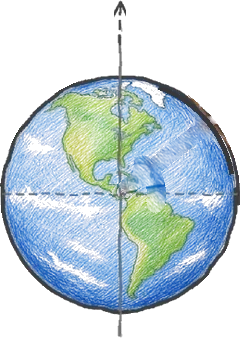
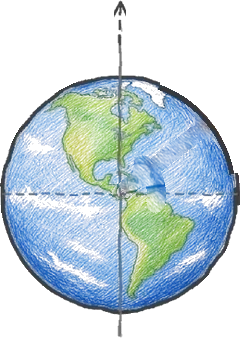
D02 Leo fixes: p10 erase the red mark at the globe's top right; p23 darker Moon's orbit label, node line kept off Earth's face, Earth's see-through center filled

Changed region(s): [[0.8458, 0.3254, 0.9917, 0.5325], [0.7292, 0.2663, 0.8458, 0.3254], [0.6708, 0.2367, 0.7292, 0.2663]]

diff --git a/public/js/astro-scenes/d02/p23.js b/public/js/astro-scenes/d02/p23.js
@@ -34,14 +34,14 @@ export default function build(ctx) {
 
   // the Moon's orbit, upper half solid and lower half dashed; the node line in red
   const half = () => Array.from({ length: 181 }, () => V(0, 0, 0));
-  const upper = line(half(), VIOLET, { opacity: 0.95 }), lower = line(half(), VIOLET, { dash: 0.14, opacity: 0.6 }), nodes = line([V(0, 0, 0), V(1, 0, 0)], RED, { dash: 0.18 });
+  const upper = line(half(), VIOLET, { opacity: 0.95 }), lower = line(half(), VIOLET, { dash: 0.14, opacity: 0.6 }), nodes = [0, 1].map(() => line([V(0, 0, 0), V(1, 0, 0)], RED, { dash: 0.18 }));
   const knot = [0, 1].map(() => { const m = new T.Mesh(new T.CircleGeometry(0.09, 20), new T.MeshBasicMaterial({ color: RED })); sys.add(m); return m; });
   // shadows: Earth's points away from the Sun; the Moon's toward Earth when it is new
   const cone = (len, r0) => { const g = new T.ConeGeometry(r0, len, 32, 1, true); g.translate(0, len / 2, 0); g.rotateX(-Math.PI / 2); return new T.Mesh(g, new T.MeshBasicMaterial({ color: SHADOW, transparent: true, opacity: 0.3, depthWrite: false, side: T.DoubleSide })); };
   const earthShadow = cone(4.6, 0.55), moonShadow = cone(R_MOON, 0.24); sys.add(earthShadow, moonShadow);
-  const spot = new T.Mesh(new T.CircleGeometry(0.16, 24), new T.MeshBasicMaterial({ color: 0x2a2a2a, transparent: true, opacity: 0 })); sys.add(spot);
+  const spot = new T.Mesh(new T.CircleGeometry(0.16, 24), new T.MeshBasicMaterial({ color: 0x2a2a2a, transparent: true, opacity: 0, depthWrite: false })); spot.renderOrder = 4; sys.add(spot);
 
-  const moonTag = ctx.label("Moon's orbit (tilt exaggerated)", [0, 0, 0], { layer: "mid", h: 0.42, color: VIOLET }); sys.add(moonTag);
+  const moonTag = ctx.label("Moon's orbit (tilt exaggerated)", [0, 0, 0], { layer: "mid", h: 0.42, color: P.dark ? VIOLET : "#403D42" }); sys.add(moonTag);
   const planeTag = ctx.label("Earth's orbit plane", [0, 0, 0], { layer: "mid", h: 0.4, color: ink }); sys.add(planeTag);
   // the node label, word for word from deck.json, written along the bottom of the page
   const note = ctx.paint([440, 770, 1560, 890], { layer: "fg" });
@@ -75,7 +75,9 @@ export default function build(ctx) {
     for (let k = 0; k <= 180; k++) { up.push(orbitPoint(Om, k, SHOW_TILT)); lo.push(orbitPoint(Om, 180 + k, SHOW_TILT)); }
     upper.geometry.setFromPoints(up); lower.geometry.setFromPoints(lo); lower.computeLineDistances();
     const n1 = orbitPoint(Om, 0, SHOW_TILT, R_MOON * 1.25), n2 = orbitPoint(Om, 180, SHOW_TILT, R_MOON * 1.25);
-    nodes.geometry.setFromPoints([n1, n2]); nodes.computeLineDistances();
+    // the node line runs from Earth's rim out past each node, so nothing is drawn over Earth's face
+    const e1 = orbitPoint(Om, 0, SHOW_TILT, 0.62), e2 = orbitPoint(Om, 180, SHOW_TILT, 0.62);
+    nodes[0].geometry.setFromPoints([e1, n1]); nodes[1].geometry.setFromPoints([e2, n2]); nodes.forEach((l) => l.computeLineDistances());
     knot[0].position.copy(orbitPoint(Om, 0, SHOW_TILT)); knot[1].position.copy(orbitPoint(Om, 180, SHOW_TILT)); knot.forEach(face);
     const M = orbitPoint(Om, u, SHOW_TILT); moon.position.copy(M);
     // shadows point away from the Sun
@@ -87,7 +89,7 @@ export default function build(ctx) {
     const elong = wrap(lm - ls), solar = Math.abs(elong) < SYZYGY && Math.abs(beta) < SOLAR, lunar = Math.abs(wrap(elong - 180)) < SYZYGY && Math.abs(beta) < LUNAR;
     moon.material.color.set(lunar ? 0xc0623f : 0xffffff);
     earthShadow.material.opacity = lunar ? 0.5 : 0.22; moonShadow.material.opacity = solar ? 0.5 : 0;
-    spot.material.opacity = solar ? 0.75 : 0; spot.position.copy(S.clone().normalize().multiplyScalar(0.05)).add(V(0, M.y * 0.2, 0.7)); face(spot);
+    spot.material.opacity = solar ? 0.75 : 0; spot.visible = solar; spot.position.copy(S.clone().normalize().multiplyScalar(0.05)).add(V(0, M.y * 0.2, 0.7)); face(spot);
     // labels: Moon's orbit above its far side, the plane's name at its front-right rim
     moonTag.position.copy(orbitPoint(Om, 90, SHOW_TILT)).add(V(0, 0.55, 0));
     planeTag.position.set(R_SUN * 0.35, -0.25, R_SUN + 0.9);
